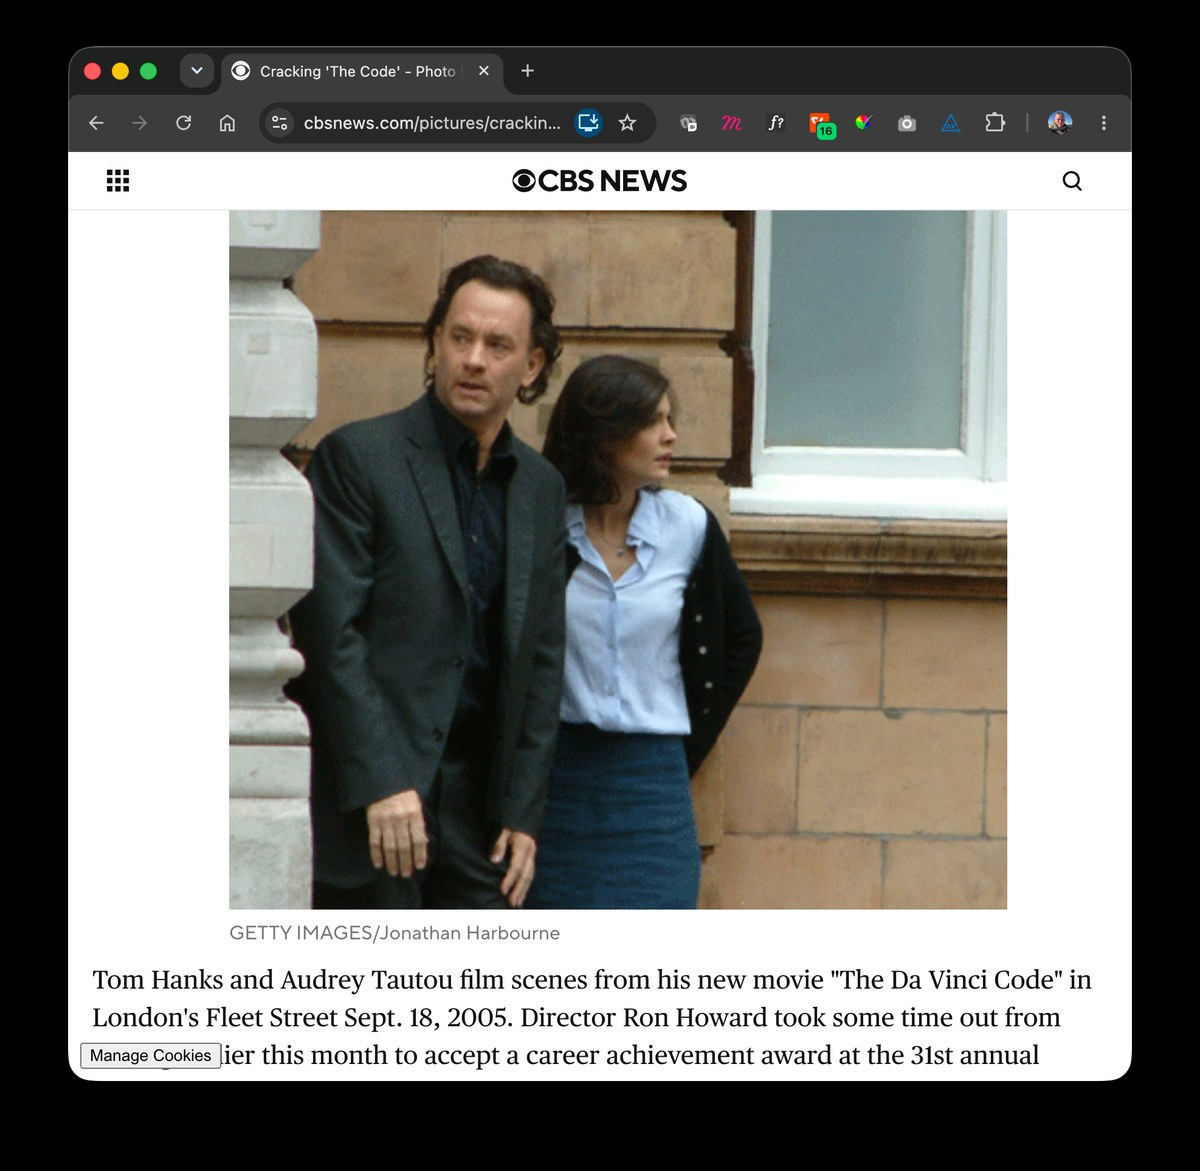
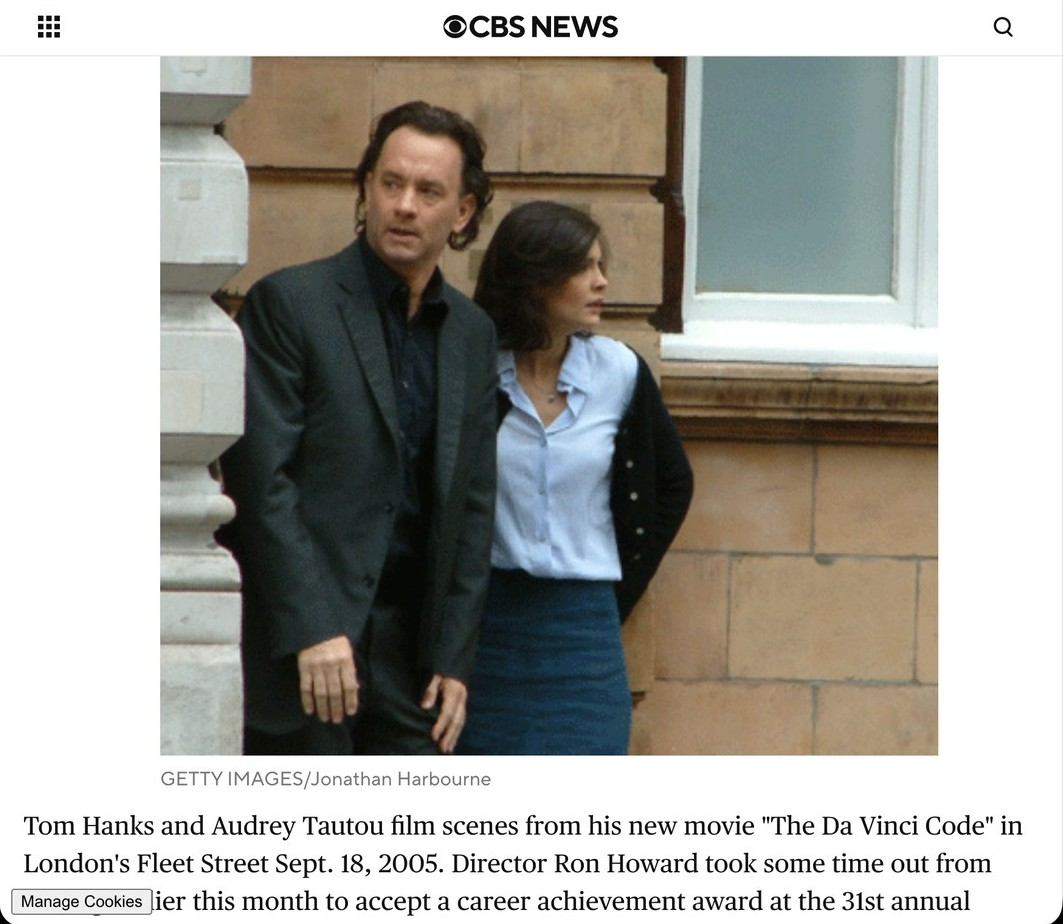
Photography: 3/4 + 1/4 split, de-framed CBS shot, link to the source
- .published-grid is now 3fr 1fr, so the Guardian runs at 744px and the
  softer CBS frame at 248px (exactly 75/25)
- tomhanks-davinci.jpg had a pure black surround (68px sides, 46 top,
  90 bottom) and dark browser chrome above the page. Cropped to the CBS
  page itself, 1200x1171 down to 1063x924: every edge is now light, no
  black background behind it
- the CBS image links to its gallery page; hover and focus states added

The Guardian image is still unlinked, pending its article URL.

diff --git a/photography.html b/photography.html
@@ -54,7 +54,9 @@
         </figure>
 
         <figure class="published-item">
-          <img src="images/tomhanks-davinci.jpg" alt="CBS News photo gallery showing Tom Hanks and Audrey Tautou filming The Da Vinci Code on Fleet Street" loading="lazy">
+          <a class="published-item__link" href="https://www.cbsnews.com/pictures/cracking-the-code/5/" target="_blank" rel="noopener noreferrer">
+            <img src="images/tomhanks-davinci.jpg" alt="CBS News photo gallery showing Tom Hanks and Audrey Tautou filming The Da Vinci Code on Fleet Street" loading="lazy">
+          </a>
           <figcaption class="published-item__caption"><strong>CBS News</strong>, &lsquo;Cracking the Code&rsquo;. Tom Hanks and Audrey Tautou filming on Fleet Street, 2005, credited Getty Images / Jonathan Harbourne.</figcaption>
         </figure>
 

diff --git a/style.css b/style.css
@@ -1767,7 +1767,7 @@ a.topic-card:focus-visible {
 
 .published-grid {
   display: grid;
-  grid-template-columns: 1.7fr 1fr;
+  grid-template-columns: 3fr 1fr;
   gap: 1.75rem;
   align-items: start;
   margin-top: 1.5rem;
@@ -1782,6 +1782,20 @@ a.topic-card:focus-visible {
   height: auto;
   display: block;
   border: 1px solid var(--rule);
+}
+
+.published-item__link {
+  display: block;
+}
+
+.published-item__link:hover img,
+.published-item__link:focus-visible img {
+  border-color: var(--mid);
+}
+
+.published-item__link:focus-visible {
+  outline: 2px solid var(--accent);
+  outline-offset: 2px;
 }
 
 .published-item__caption {
